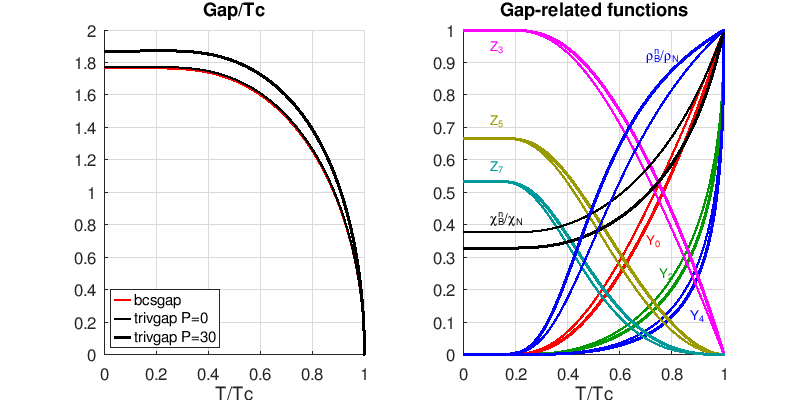
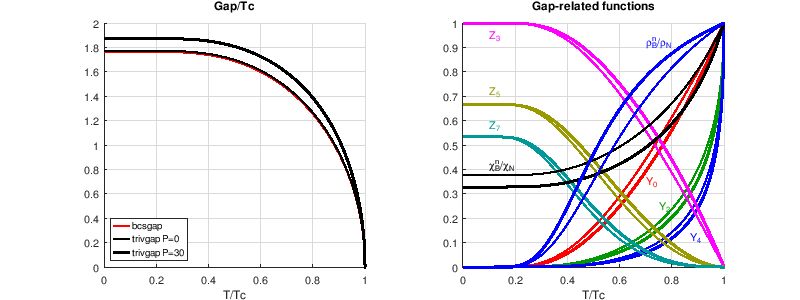
docs: fix image text size

diff --git a/docs/img/he3b_tau.m b/docs/img/he3b_tau.m
@@ -16,15 +16,17 @@ semilogy(ttc, he3_tau_n0(ttc,p1),   'r-');
 semilogy(ttc, he3_tau0(ttc, p1),    'r-', 'linewidth', 2);
 semilogy(ttc, he3_tau_n_av(ttc,p1), 'b-');
 semilogy(ttc, he3_tau_av(ttc, p1),  'b-', 'linewidth', 2);
+semilogy(ttc, he3_tau0lt(ttc,p1),   'g-');
 
 semilogy(ttc, he3_tau_n0(ttc,p2),   'r--');
 semilogy(ttc, he3_tau0(ttc, p2),    'r--', 'linewidth', 2);
 semilogy(ttc, he3_tau_n_av(ttc,p2), 'b--');
 semilogy(ttc, he3_tau_av(ttc, p2),  'b--', 'linewidth', 2);
+semilogy(ttc, he3_tau0lt(ttc,p2),   'g--');
 
 xlabel('T/Tc')
 ylabel('\tau, s')
-legend('he3\_tau\_n0', 'he3\_tau0', 'he3\_tau\_n\_av', 'he3\_tau\_av')
+legend('he3\_tau\_n0', 'he3\_tau0', 'he3\_tau\_n\_av', 'he3\_tau\_av', 'he3\_tau0lt')
 title('quasiparticle lifetime (0bar, 30bar)')
 text(1,2e-6, '0bar')
 text(1,1e-7, '30bar')
@@ -47,4 +49,4 @@ legend('he3\_vf*he3\_tau\_n0', 'he3\_fpath')
 title('quasiparticle mean free path (0bar, 30bar)')
 
 
-print -dpng he3b_tau.png "-S800,300"
+print -dpng he3b_tau.png "-S800,300" "-F:6"

diff --git a/docs/img/magn_par.m b/docs/img/magn_par.m
@@ -27,7 +27,8 @@
   semilogx(t,magn_par_m(1e-3*t, B2, Bint, gyro, spin)/Ms, 'b-');
   semilogx(t,magn_par_m(1e-3*t, B3, Bint, gyro, spin)/Ms, 'r-');
   xlim([0,t(end)])
-  legend('B=0', 'B=0.08T', 'B=0.8T', 'B=8T', 'Location', 'SouthWest')
+  legend('B=0', 'B=0.08T', 'B=0.8T', 'B=8T',...
+         'Location', 'West')
 
 
   subplot(1,3,2); hold on;
@@ -55,7 +56,7 @@
   xlim([0,t(end)])
   ylim([0,0.8])
 
-  print magn_par.png -dpng "-S800,300"
+  print magn_par.png -dpng "-S800,300" "-F:6"
 
 
 available_graphics_toolkits

diff --git a/docs/img/he3b_coll_int.m b/docs/img/he3b_coll_int.m
@@ -47,6 +47,10 @@ ylim(10.^[-2 1]);
 title('Collision integral for xi=0, 0.8, 0.99 vs T/Tc')
 xlabel('T/T_c')
 ylabel('collision integral')
-legend('he3\_coll\_int', 'he3\_coll\_int\_lt', 'he3\_coll\_int\_ht', '3/2/pi * gap/ttc * Y0 * w0')
+legend('he3\_coll\_int',...
+       'he3\_coll\_int\_lt',...
+       'he3\_coll\_int\_ht',...
+       '3/2/pi * gap/ttc * Y0 * w0',...
+'location', 'northwest')
 
-print -dpng  he3b_coll_int.png "-S500,300"
+print -dpng  he3b_coll_int.png "-S400,300" "-F:12"

diff --git a/docs/img/he3b_slip_length_.m b/docs/img/he3b_slip_length_.m
@@ -15,4 +15,4 @@ plot(ttc,v2, 'b-');
 legend('P=0 bar', 'P=30 bar');
 xlim([0,1.1])
 
-print he3b_slip_length.png -dpng "-S400,300"
+print he3b_slip_length.png -dpng "-S400,300" "-F:12"

diff --git a/docs/img/magn_cw.m b/docs/img/magn_cw.m
@@ -64,5 +64,5 @@
   semilogx(t*1e3,magn_cw_c(t,B3,Tc,gyro), 'r-');
   ylim([0,1.5])
 
-  print magn_cw.png -dpng "-S800,600"
+  print magn_cw.png -dpng "-S800,600" "-F:6"
 

diff --git a/docs/img/he3_phase.m b/docs/img/he3_phase.m
@@ -67,6 +67,6 @@
   xlabel('temperature, K');
   ylabel('pressure, bar');
 
-  print he3_phase.png -dpng "-S800,400"
+  print he3_phase.png -dpng "-S800,300" "-F:6"
 
 

diff --git a/docs/img/he34_phase.m b/docs/img/he34_phase.m
@@ -44,6 +44,6 @@
   legend('0bar', '1bar', '2bar', '5bar', '10bar')
 
 
-  print he34_phase.png -dpng "-S800,400"
+  print he34_phase.png -dpng "-S800,300" "-F:6"
 
 

diff --git a/docs/img/he3_gap.m b/docs/img/he3_gap.m
@@ -65,5 +65,5 @@
   ylim([0 1]);
   set(gca, 'yTick', 0:0.1:1);
   grid on;
-  print he3_gap.png -dpng "-S800,400"
+  print he3_gap.png -dpng "-S800,300" "-F:6"
 
